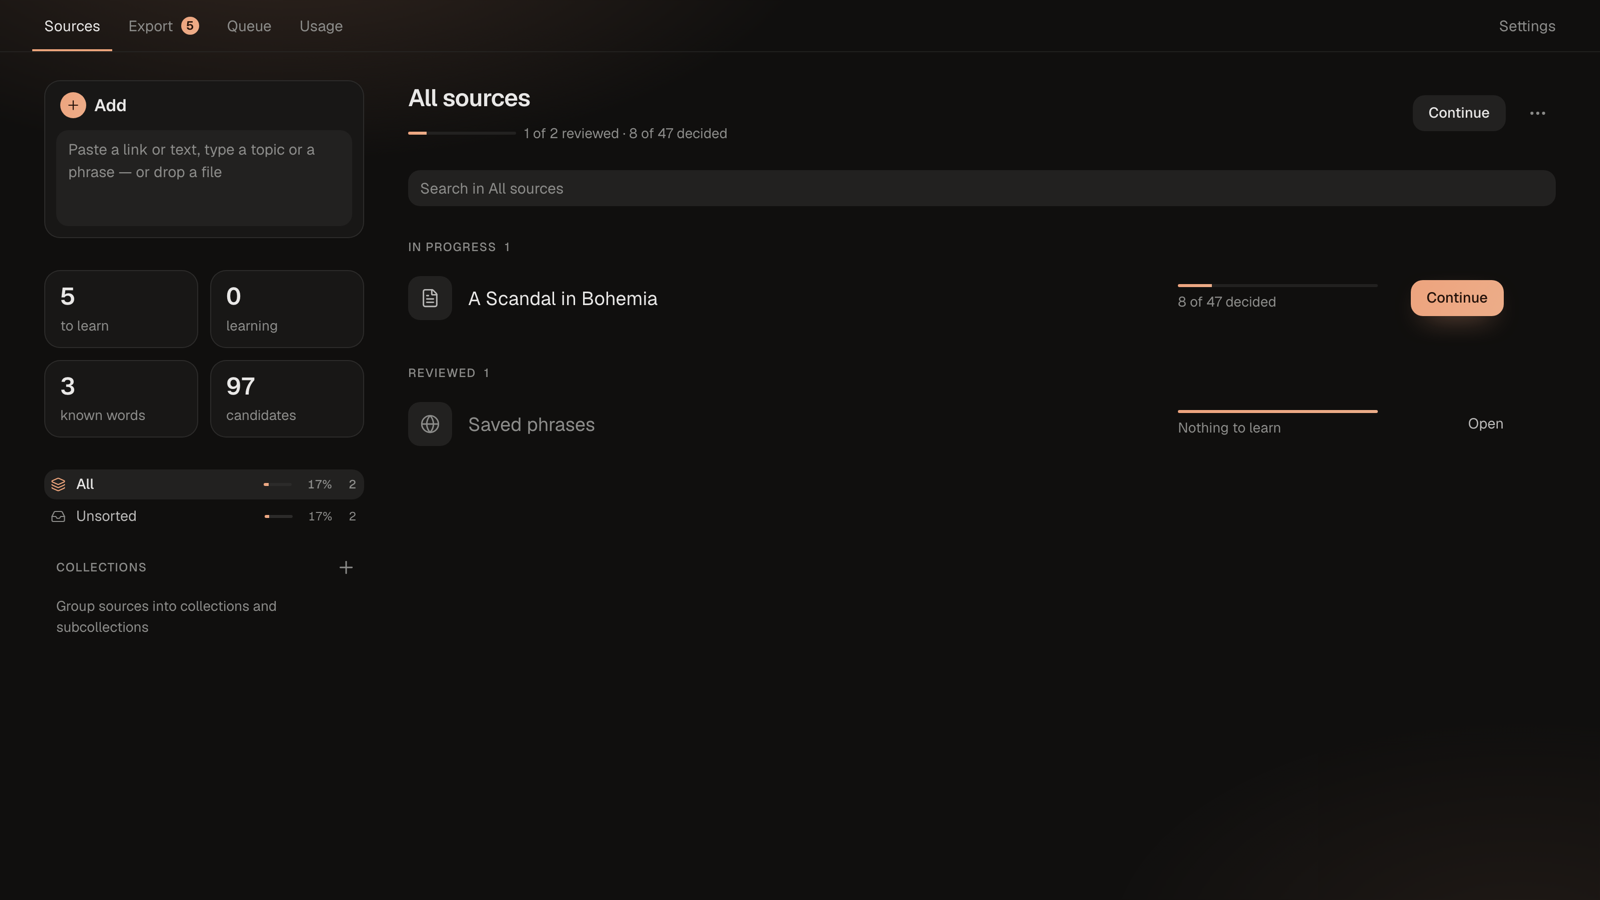
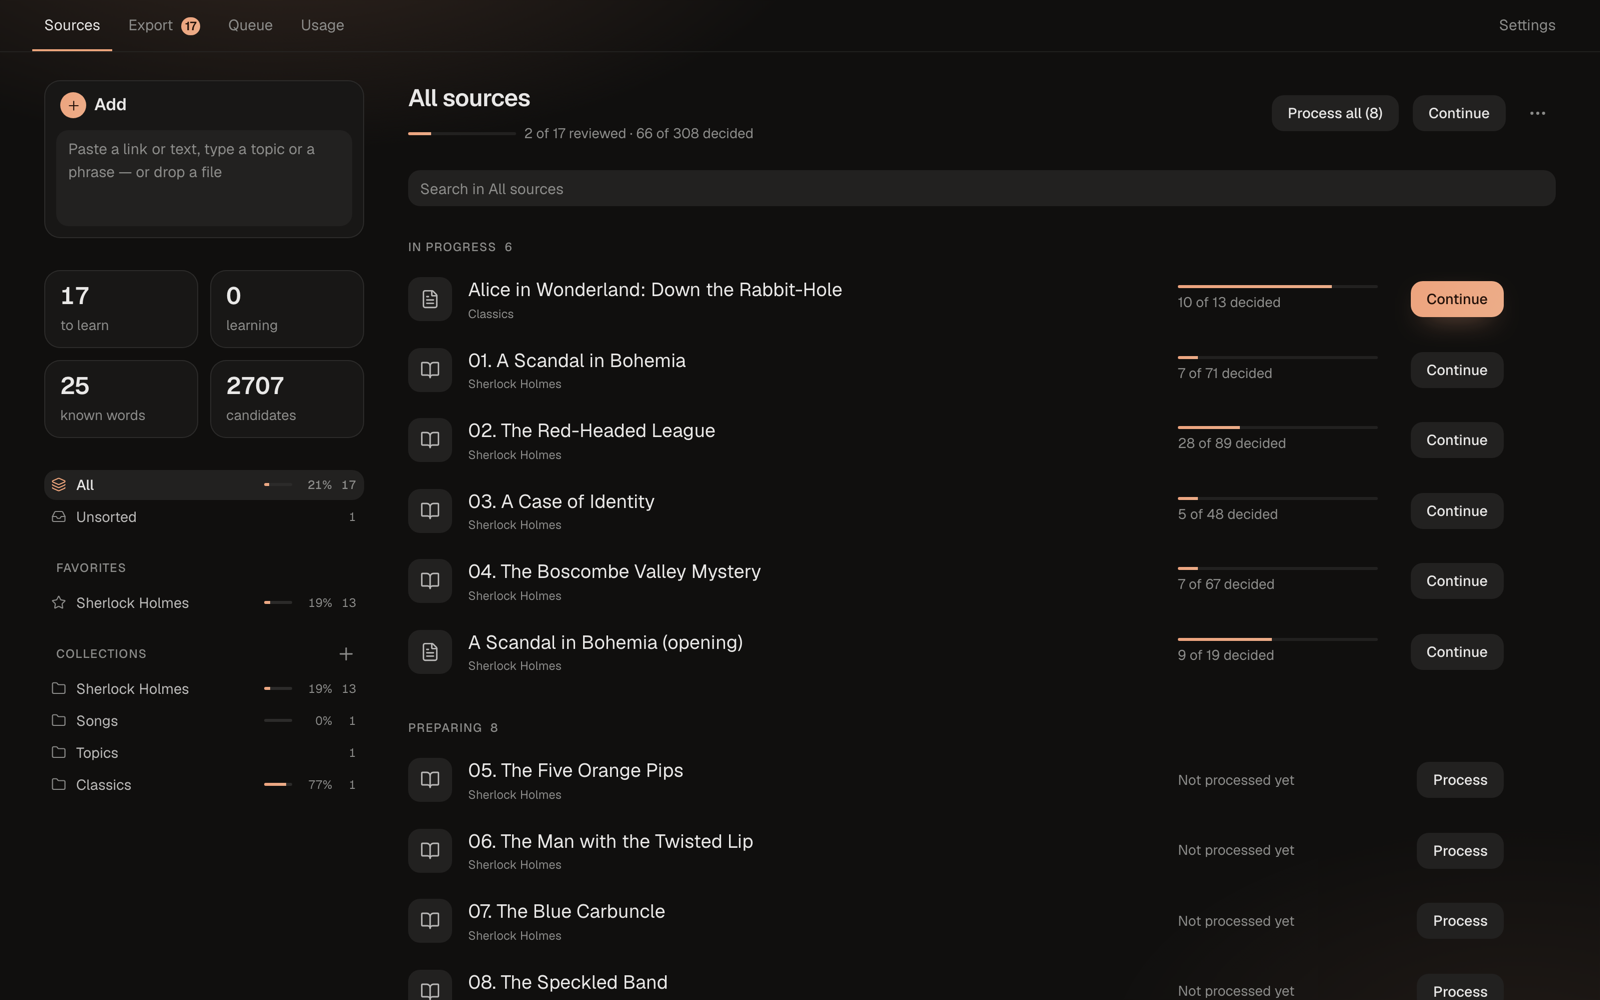
docs: show collections, the generate menu and the focused review

diff --git a/docs/guide/review.md b/docs/guide/review.md
@@ -18,7 +18,7 @@ The phrase is at the top, with the target in bold. Below it, the left column hol
 - **Translation**: a short translation of the target in this context. The translation is into **Russian**; to change the language, see [Configuration](../reference/configuration.md#translation-language).
 - **Context**: what is going on in the phrase, retold in simple English.
 - **Video frame and clip** (video sources only): a screenshot and the audio of the phrase, cut from the video. ▶ plays it.
-- **Picture** of the word, if you added one, and **Suggested pictures · click to add** if you didn't.
+- **Picture** of the word, if you added one. Otherwise, **Suggested pictures · click to add** shows the first results of a picture search; the Picture icon in the header turns them off.
 
 The right column holds reference material:
 
@@ -93,6 +93,8 @@ Each item has a submenu:
 - **Retry failed** and **Cancel**.
 - For YouTube sources, **Download video** downloads the video before media can be cut from it.
 
+![The Generate menu with the Meanings submenu open](../images/review-generate.png)
+
 Generation runs in the background, and you can keep reviewing meanwhile. Cards fill in as results arrive. Progress and failures are on the [Queue](queue-and-usage.md#queue) screen.
 
 A typical flow: process a source, then run **Meanings → Ready: generate missing** (and **Phrases** for books and articles), then review.
@@ -144,7 +146,21 @@ The panel on the right shows the source text, with every target marked. The curr
 - **Select text** to add a word the app missed. Tap the words that make up the target, then press **Add word**. The selection becomes the card's phrase.
 - **Edit → Change boundary** uses the same panel: select the new phrase, then press **Set boundary**.
 
-The header buttons show and hide the source text, the phrase list and picture suggestions.
+## Layout
+
+The icons in the header, left of **Export**, change what the screen shows:
+
+| Icon | What it does |
+|---|---|
+| Sort | Opens the [sort menu](#sorting) |
+| ✨ | Opens the [Generate menu](#generating-card-content) |
+| Picture | Shows or hides **Suggested pictures** on cards |
+| List | Shows or hides the phrase list under the card |
+| Panel | Shows or hides the source text on the right |
+
+With the phrase list and the source text hidden, only the current card is left. Move between cards with the arrows. The app remembers the layout.
+
+![Review with the phrase list and the source text hidden](../images/review-focus.png)
 
 ## Keyboard shortcuts
 

diff --git a/README.md b/README.md
@@ -16,7 +16,13 @@ Everything runs locally on your Mac. AI features use your own [Claude Code](http
 
 2. **Process it.** The app splits the text into phrases and picks the targets that are new to you. It decides by your level, by the words you already know, and by how common each word is.
 3. **Generate the cards.** AI writes a meaning, a translation, synonyms and examples, and can simplify hard sentences. Video sources get a screenshot and an audio clip of the phrase; other sources get the phrase read aloud.
-4. **Review.** Decide card by card: **Learn**, **Cloze**, **Know** or **Skip**. The phrases where only the target is new come first.
+
+   ![Generate menu](docs/images/review-generate.png)
+
+4. **Review.** Decide card by card: **Learn**, **Cloze**, **Know** or **Skip**. The phrases where only the target is new come first. Hide the phrase list and the source text to see just the card.
+
+   ![Review with only the card shown](docs/images/review-focus.png)
+
 5. **Export to Anki.** One click sends the cards, with their media, to Anki.
 
    ![Export](docs/images/export.png)

diff --git a/docs/guide/settings.md b/docs/guide/settings.md
@@ -2,8 +2,6 @@
 
 Open **Settings** in the top right corner. The sections are listed on the left.
 
-![Settings screen](../images/settings.png)
-
 **Save settings** saves the whole form, not only the open section. Theme, auto-play, usage priority and the word lists are saved at once, without the button.
 
 ## Appearance
